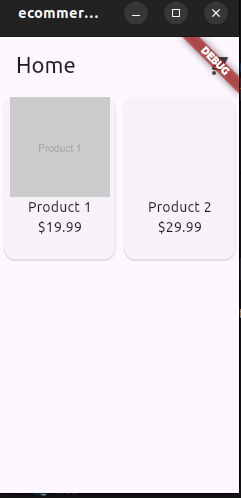
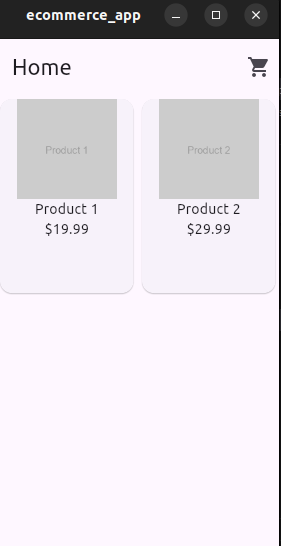
update Ecommerce

diff --git a/lib/presentation/screens/product_details_screen.dart b/lib/presentation/screens/product_details_screen.dart
@@ -29,6 +29,10 @@ class ProductDetailsScreen extends StatelessWidget {
                 label: 'Add to Cart',
                 onPressed: () {
                   cartProvider.addToCart(product);
+                  // Show a simple feedback (like a SnackBar)
+                  ScaffoldMessenger.of(context).showSnackBar(
+                    SnackBar(content: Text('${product.name} added to cart!')),
+                  );
                 },
               );
             },

diff --git a/lib/app.dart b/lib/app.dart
@@ -30,7 +30,9 @@ class MyApp extends StatelessWidget {
         routes: {
           '/cart': (context) => CartScreen(),
         },
+        debugShowCheckedModeBanner: false,
       ),
     );
+    
   }
 }

diff --git a/README.md b/README.md
@@ -15,5 +15,6 @@ For help getting started with Flutter development, view the
 [online documentation](https://docs.flutter.dev/), which offers tutorials,
 samples, guidance on mobile development, and a full API reference.
 Look some screenshoot for the app
-![Home Logo](./app/home.png)
+![Home page Logo](./app/home.png)
 ![Detail Page Logo](./app/detail.png)
+![Cart Page Logo](./app/cart.png)
